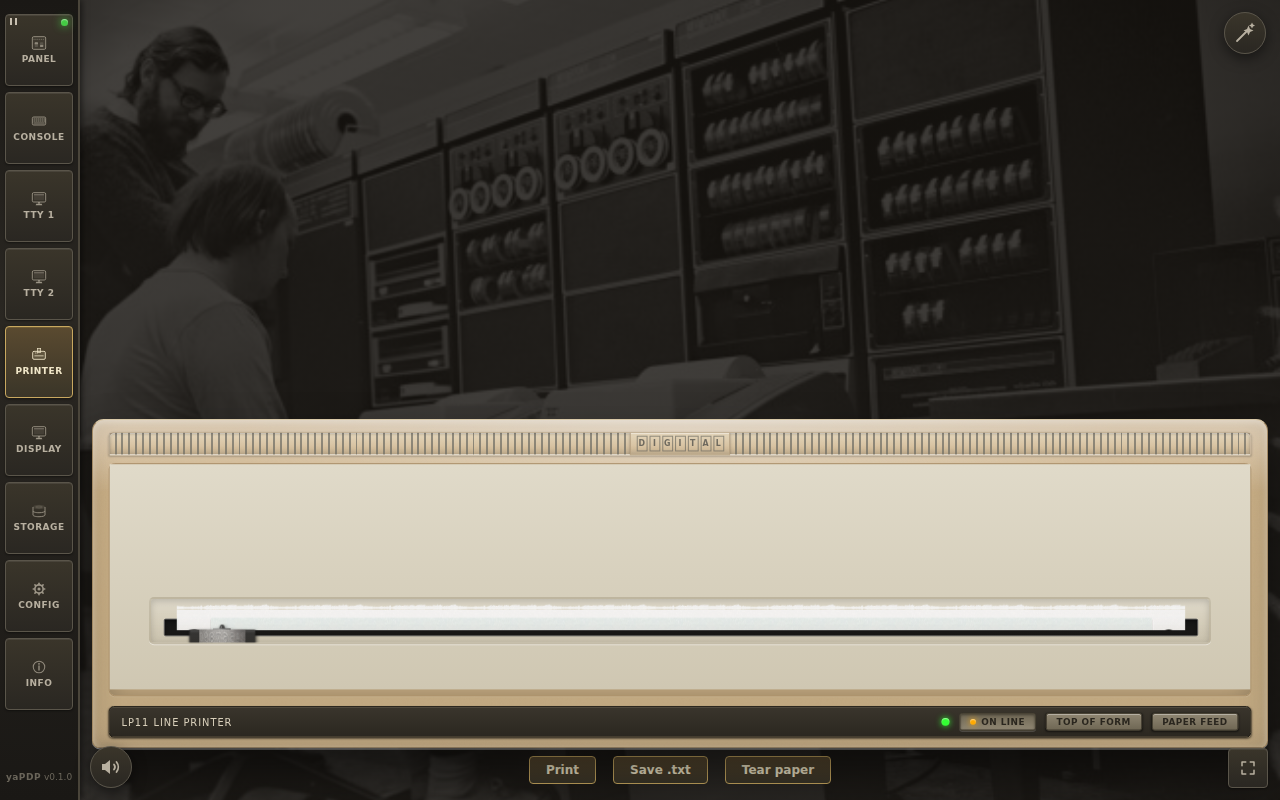
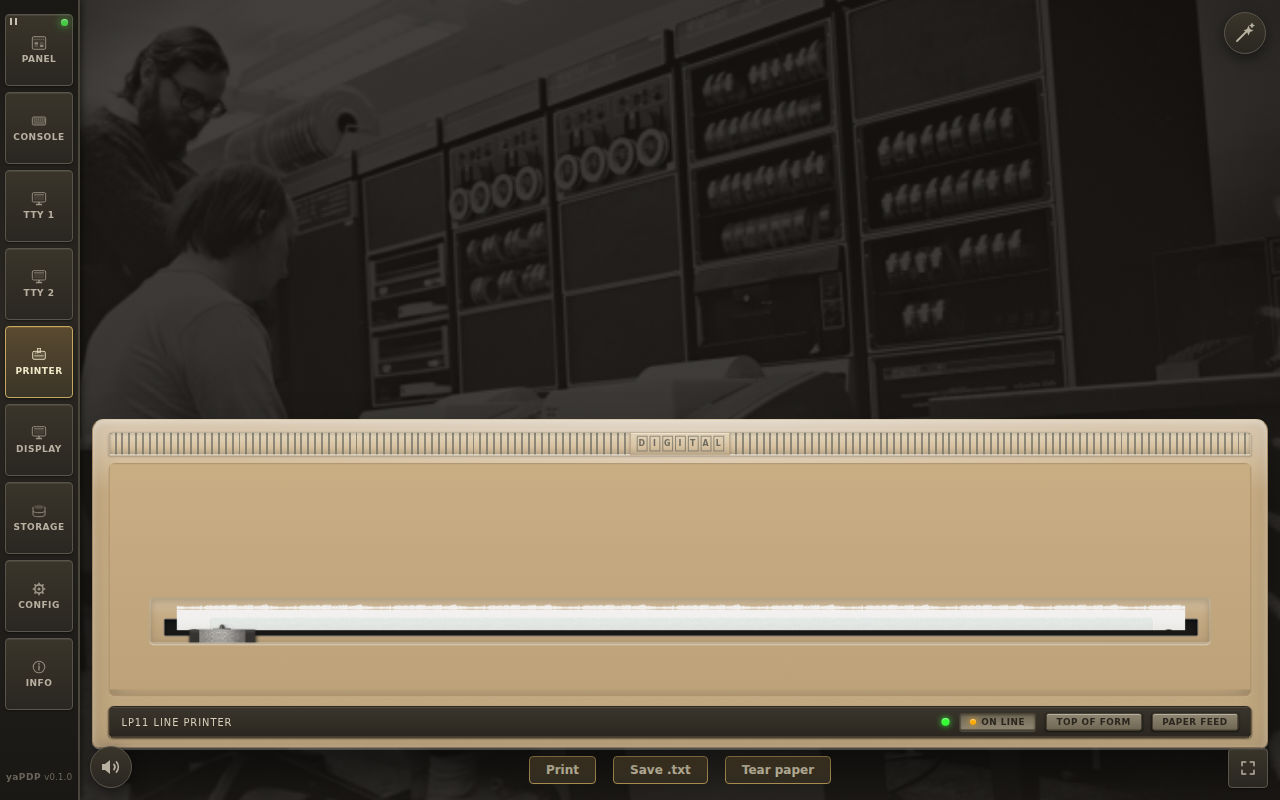
LP11: sand the G60 machine body inside the mechanics bay
The Google60 machine container (#lp11g60printer) still carried the old
light-beige gradient (#e0dac9 -> #cfc7b2), so with a printer installed
the area around the paper slot stayed light while the bay around it was
already sand. The container now uses the bay's own sand tone
(#c9ae84 -> #bda27a) — the bay reads as one sand unit. The missed rule
was invisible in screenshots taken without printer:true (the machine is
only built when an LP11 is installed).

Changed region(s): [[0.0625, 0.5625, 1.0, 0.875]]

diff --git a/tests/lp11-cabinet-css.test.js b/tests/lp11-cabinet-css.test.js
@@ -143,6 +143,16 @@ function run() {
             "mechanics bay must be sand (DEC palette):\n" + bayBlock);
     }
 
+    // --- The G60 machine body inside the bay must be sand, not light beige --
+    // (lastIndexOf picks the LP11 override, not the base Google60 rule)
+    {
+        const idx = g60Css.lastIndexOf("#lp11_printer div#lp11g60printer {");
+        assert.ok(idx !== -1, "no #lp11_printer div#lp11g60printer override in g60printer.css");
+        const block = g60Css.slice(idx, idx + 400);
+        assert.ok(/background\s*:\s*linear-gradient\(180deg,\s*#c9ae84\s*0%,\s*#bda27a\s*100%\)\s*;/.test(block),
+            "the G60 machine body must be sand (#c9ae84→#bda27a), not light beige:\n" + block);
+    }
+
     // --- Cabinet + hood in the sand cast-plastic family (like the teletype) --
     // The cabinet and the top hood share the sand gradient with the same grain,
     // so the LP11 matches the rest of the DEC equipment. The hood is slightly

diff --git a/css/g60printer.css b/css/g60printer.css
@@ -900,7 +900,11 @@
 }
 
 #lp11_printer div#lp11g60printer {
-    background: linear-gradient(180deg, #e0dac9 0%, #cfc7b2 100%);
+    /* The Google60 machine body fills the bay: same sand cast-plastic as the
+       bay itself (a touch darker at the bottom for depth), so the area around
+       the rising fanfold reads as one sand mechanics bay instead of the old
+       light beige. */
+    background: linear-gradient(180deg, #c9ae84 0%, #bda27a 100%);
 }
 
 /* Dark paper opening: a recessed slot right at the carriage, out of which the
